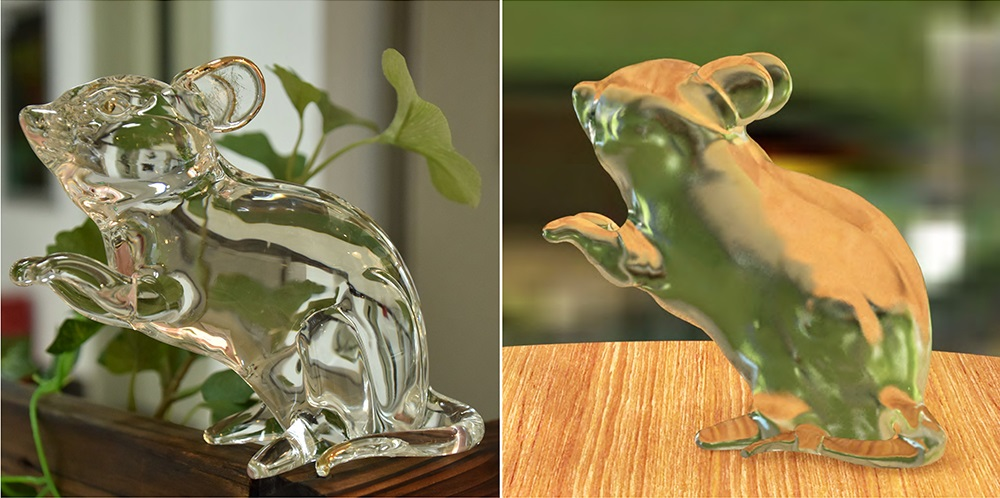
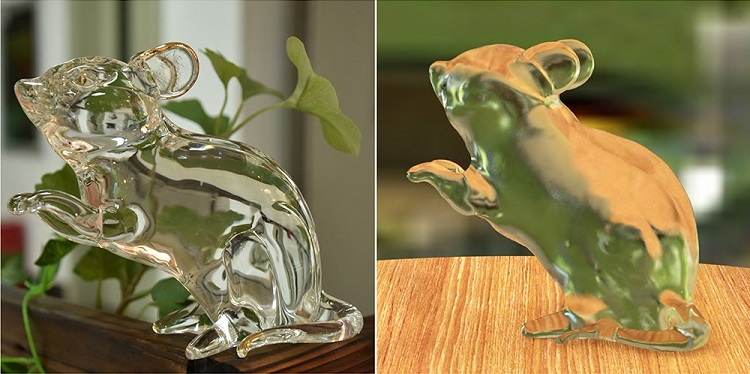
teaser image compression

diff --git a/index.html b/index.html
@@ -97,7 +97,7 @@
 <div class="section">Publications</div>
 <table class="pubtable">
 	<tr>
-		<td><img class="thumbnail", src="projects/DRT/teaser.png" border="0"/></td>
+		<td><img class="thumbnail", src="projects/DRT/teaser.jpg" border="0"/></td>
 		<td style="text-align:left; line-height: 175%;">
 			<a class="title">Differentiable Refraction-Tracing for Mesh Reconstruction of Transparent Objects</a>
 			<br/>
@@ -111,7 +111,7 @@
 	</tr>
 	<tr><td class="pub-spacer"></td></tr>
 	<tr>
-		<td><img class="thumbnail" src="projects/Facial/teaser.png" border="0"/></td>
+		<td><img class="thumbnail" src="projects/Facial/teaser.jpg" border="0"/></td>
 		<td style="text-align:left; line-height: 175%;">
 			<a class="title">Directing DNNs Attention for Facial Attribution Classification using Gradient-weighted Class Activation Mapping</a>
 			<br/>
